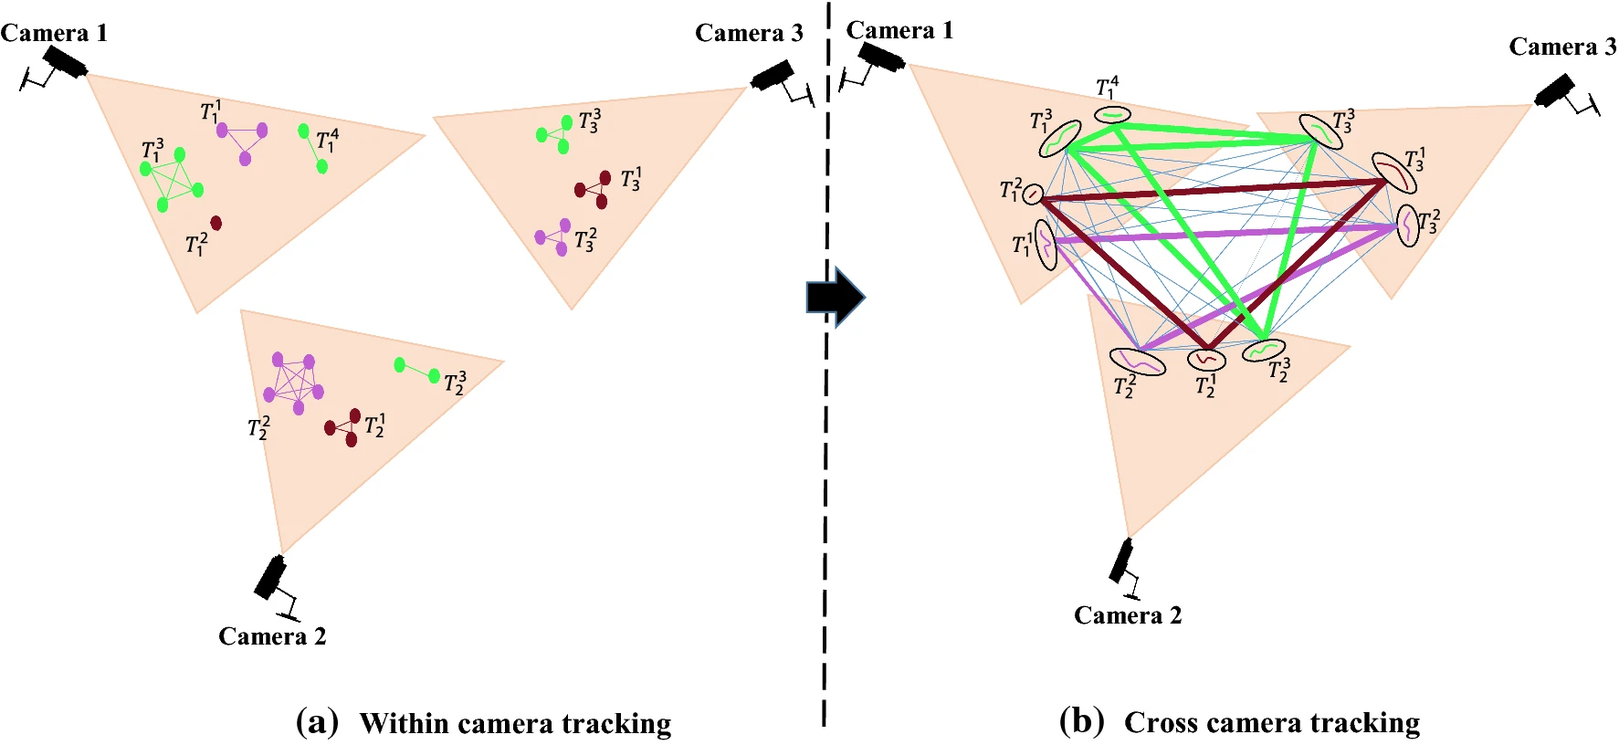
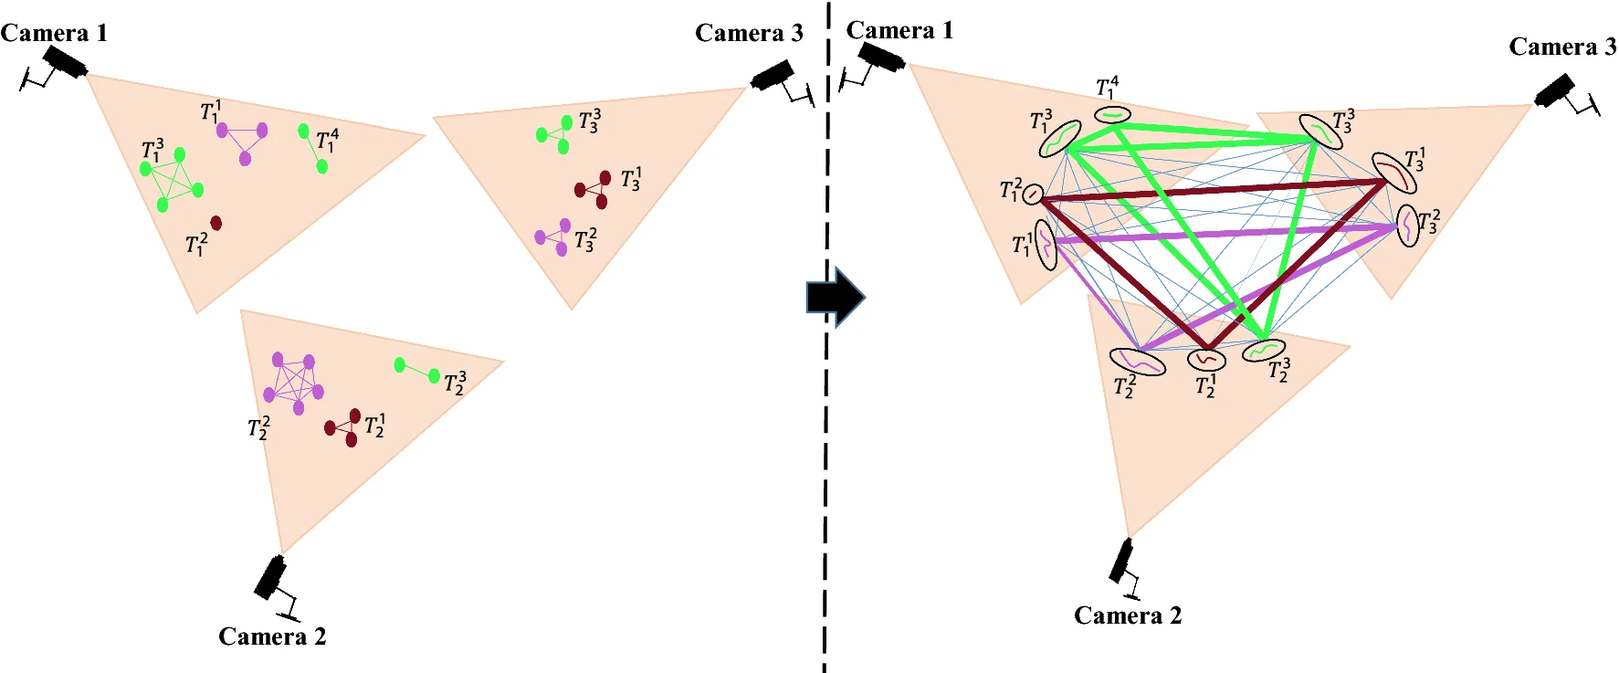
Add literature review, color links

diff --git a/chapters/050-literature_review.tex b/chapters/050-literature_review.tex
@@ -1,5 +1,5 @@
 \chapter{Literature Review}\label{chap:literature_review}
-This chapter reviews the literature on Multi-Target Multi-Camera Tracking (MTMCT) and discusses the trends and advancements as well as the milestones in this field. It will only focus on the latest and state-of-the-art methods and technologies and will not cover the whole history of MTMCT including all the past algorithms and methods. The chapter is structured as follows: Section~\ref{sec:the_beginnings} discusses the beginnings of MTMCT, Section~\ref{sec:milestones} highlights the milestones in MTMCT, Section~\ref{sec:methods} reviews the methods and algorithms used in MTMCT, and Section~\ref{sec:strengths_and_weaknesses} discusses the strengths and weaknesses of the reviewed methods and algorithms.
+This chapter reviews the literature on Multi-Target Multi-Camera Tracking (MTMCT) and discusses the trends and advancements as well as the milestones in this field. It will only focus on the latest and state-of-the-art methods and technologies and will not cover the whole history of MTMCT including all the past algorithms and methods. The chapter is structured as follows: Section~\ref{sec:the_beginnings} discusses the beginnings of MTMCT, Section~\ref{sec:milestones} highlights the milestones in MTMCT, Section~\ref{sec:methods} reviews the methods and algorithms used in MTMCT.
 
 \section{The Beginnings}\label{sec:the_beginnings}
 Back in \citeyear{Cai99} and \citeyear{Chang01} \textcite{Cai99} and \textcite{Chang01} conducted research in the area of tracking people in an multi-camera system. Also in \citeyear{Khan01}, \textcite{Khan01} proposed a method for tracking people and vehicles with uncalibrated cameras. The system is able to discover spatial relationships between the FOVs of the three cameras used. All three works rely on Bayesian classification and networks~\cite{Pearl88}.
@@ -9,7 +9,6 @@ The methods even demonstrated the feasibility of tracking people in real-time, b
 \section{Milestones}\label{sec:milestones}
 This section highlights significant milestones that have shaped the MTMCT research domain, focusing on the five critical areas: detection, feature extraction, data association, tracking, and datasets (challenges).
 
-%TODO: What is the latest YOLO version? YOLOv4 or v8?
 \subsection{Detection}\label{subsec:milestone_detection}
 The foundation for modern object detection methods was laid in \citeyear{Lecun98} by \citeauthor{Lecun98} with the development of Convolutional Neural Networks (CNNs), which are deep learning models specifically designed to process images~\cite{Lecun98}. The advent of deep learning in the past quarter-century has led to a significant improvement in object detection performance.
 
@@ -17,7 +16,7 @@ With the introduction of R-CNN~\cite{Girshick14} in \citeyear{Girshick14}, \cite
 
 Following the success of R-CNN and its successors, the object detection landscape was further revolutionized by the introduction of You-Only-Look-Once (YOLO)~\cite{Redmon15} and Single Shot MultiBox Detector (SSD)~\cite{Liu15}, which are designed to be even more efficient and suitable for real-time applications.
 
-The YOLO framework, presented by \citeauthor{Redmon15} in \citeyear{Redmon15}, revolutionized real-time object detection by predicting bounding boxes and class probabilities directly from full images in just one evaluation. YOLO processes the entire image in a single forward pass through the network, divides the image into a grid, and predicts bounding boxes and probabilities for each grid cell. The strength of YOLO lies in its speed, making it highly suitable for applications where real-time detection is crucial. Even though the original author has stopped working on YOLO, due to ethical concerns, it is still being improved continuously. The latest official version, YOLOv4, was released in \citeyear{Bochkovskiy20} by \textcite{Bochkovskiy20}.
+The YOLO framework, presented by \citeauthor{Redmon15} in \citeyear{Redmon15}, revolutionized real-time object detection by predicting bounding boxes and class probabilities directly from full images in just one evaluation. YOLO processes the entire image in a single forward pass through the network, divides the image into a grid, and predicts bounding boxes and probabilities for each grid cell. The strength of YOLO lies in its speed, making it highly suitable for applications where real-time detection is crucial. Even though the original author has stopped working on YOLO, due to ethical concerns, it is still being improved continuously. The latest official version, YOLOv4, was released in \citeyear{Bochkovskiy20} by \textcite{Bochkovskiy20}. In \citeyear{Jocher23a} Ultralytics released the most recent version YOLOv8~\cite{Jocher23a, Jocher23b}.
 
 \citeauthor{Liu15} proposed SSD in \citeyear{Liu15}, another influential single-shot object detector that balances the trade-off between speed and accuracy. Unlike YOLO, SSD operates on multiple feature maps at different resolutions to effectively handle objects of various sizes. The architecture applies a set of convolutional filters to these feature maps to predict both the bounding box offsets and the class probabilities for a fixed set of default bounding boxes, which are distributed over the image. Detecting and tracking objects across different scales and perspectives makes SSD particularly suitable for MTMCT applications.
 
@@ -74,30 +73,30 @@ Graph-based methods are another cornerstone in tracking, framing the tracking ta
 \subsection{Datasets and Challenges}\label{subsec:datasets_and_challenges}
 Besides the datasets mentioned in section~\ref{sec:datasets}, which are used for object detection in general, there are also datasets which are more tailored towards MTMCT. Typically revolves around tracking specific object classes, predominantly people and vehicles. Datasets, which fits these requirements are listed in table~\ref{tab:overview_datasets}.
 
-%TODO: Add missing (!!!) information
-%TODO: Fix footnote
 \begin{table}[ht]
     \centering
     \caption{Overview of Datasets}\label{tab:overview_datasets}
     \resizebox{\textwidth}{!}{
         \begin{tabular}{|l|c|c|c|c|c|c|c|c|}
             \hline
-            \textbf{Dataset}                                                       & \textbf{Environment} & \textbf{Num. of Scenarios} & \textbf{Num. of Cameras (Overlap)} & \textbf{FPS} & \textbf{IDs} & \textbf{Year} & \textbf{Class}  \\
+            \textbf{Dataset}                     & \textbf{Environment} & \textbf{Num. of Scenarios} & \textbf{Num. of Cameras (Overlap)} & \textbf{FPS} & \textbf{IDs} & \textbf{Year} & \textbf{Class}  \\
             \hline
-            MARS\footnote{extension of Market-1501~\cite{Zheng15}}~\cite{Zheng16b} & !!!                  & !!!                        & !!!                                & !!!          & !!!          & 2016          & Person          \\
-            MOT16~\cite{Milan16a}                                                  & Outdoor              & 14                         & 1                                  & 25-30        & !!!          & 2016          & Person, Vehicle \\
-            DukeMTMC~\cite{Ristani16}                                              & Outdoor              & 1                          & 8 (\cmark)                         & 60           & 2834         & 2016          & Person          \\
-            WILDTRACK~\cite{Chavdarova18}                                          & Outdoor              & 1                          & 7 (\cmark)                         & 60           & 313          & 2018          & Person          \\
-            MSMT17~\cite{Wei18}                                                    & Mixed                & 12                         & 15 (\cmark)                        & 15           & 4101         & 2018          & Person          \\
-            CityFlowV1~\cite{Tang19}                                               & Outdoor              & 5                          & 40 (\cmark)                        & 10           & 666          & 2019          & Vehicle         \\
-            MOT20~\cite{Dendorfer20}                                               & Outdoor              & 8                          & 1                                  & 25           & !!!          & 2020          & Person, Vehicle \\
-            CityFlowV2~\cite{Tang19}                                               & Outdoor              & 6                          & 46 (\cmark)                        & 10           & 880          & 2021          & Vehicle         \\
-            MMPTRACK~\cite{Han23}                                                  & Indoor               & 5                          & 23 (\cmark)                        & 15           & !!!          & 2023          & Person          \\
-            MEVID~\cite{Davila23}                                                  & Mixed                & 17                         & 33 (\cmark)                        & !!!          & 158          & 2023          & Person          \\
+            PETS~\cite{Ferryman09}               & Outdoor              & 3                          & 8 (\cmark)                         & 25           & ---          & 2009          & Person          \\
+            MARS\footnotemark[1]~\cite{Zheng16b} & Mixed                & Multiple                   & 6 (\cmark)                         & ---          & 1261         & 2016          & Person          \\
+            MOT16~\cite{Milan16a}                & Outdoor              & 14                         & 1                                  & 25-30        & ---          & 2016          & Person, Vehicle \\
+            DukeMTMC~\cite{Ristani16}            & Outdoor              & 1                          & 8 (\cmark)                         & 60           & 2834         & 2016          & Person          \\
+            WILDTRACK~\cite{Chavdarova18}        & Outdoor              & Multiple                   & 7 (\cmark)                         & 2            & 313          & 2018          & Person          \\
+            MSMT17~\cite{Wei18}                  & Mixed                & 12                         & 15 (\cmark)                        & 15           & 4101         & 2018          & Person          \\
+            CityFlowV1~\cite{Tang19}             & Outdoor              & 5                          & 40 (\cmark)                        & 10           & 666          & 2019          & Vehicle         \\
+            MOT20~\cite{Dendorfer20}             & Outdoor              & 8                          & 1                                  & 25           & ---          & 2020          & Person, Vehicle \\
+            CityFlowV2~\cite{Tang19}             & Outdoor              & 6                          & 46 (\cmark)                        & 10           & 880          & 2021          & Vehicle         \\
+            MMPTRACK~\cite{Han23}                & Indoor               & 5                          & 23 (\cmark)                        & 15           & ---          & 2023          & Person          \\
+            MEVID~\cite{Davila23}                & Mixed                & 17                         & 33 (\cmark)                        & ---          & 158          & 2023          & Person          \\
             \hline
         \end{tabular}
     }
 \end{table}
+\footnotetext[1]{extension of Market-1501~\cite{Zheng15}}
 
 Table~\ref{tab:overview_datasets} provides a summary of various datasets that have significantly contributed to the MTMCT research domain. Each dataset is categorized based on several distinct criteria to reflect its unique characteristics and relevance:
 
@@ -125,7 +124,10 @@ In recent years, challenges have been established to encourage research in objec
 \section{Methods}\label{sec:methods}
 This section reviews the methods and state-of-the-art algorithms used in MTMCT.
 
-\subsection{Tracking-by-Detection}\label{subsec:tracking_by_detection}
+\subsection{Tracking Paradigms}\label{subsec:tracking_paradigms}
+In the past years various tracking paradigms have been developed, which are used in MTMCT. The most common paradigms are tracking-by-detection, tracking-by-regression, tracking-by-segmentation, and tracking-by-attention. Each of these paradigms has its own advantages and disadvantages, which are discussed in the following sections.
+
+\subsubsection{Tracking-by-Detection}\label{subsubsec:tracking-by-detection}
 The most common approach used by MTMCT systems is to first detect the objects in each frame and then data association is performed to link the detections across frames. This Tracking-by-Detection (TbD) implementation as a multi-shot approach and treats detection and association as separate, sequential tasks, allowing for the use of specialized methods tailored for each step.
 
 One of the pioneering works in this domain is the Simple Online and Realtime Tracking (SORT)~\cite{Bewley16} algorithm proposed by \citeauthor{Bewley16}. SORT employs a combination of Kalman filters for predicting the motion of objects and the Hungarian algorithm for associating detections over time, based on both predicted locations and detected bounding boxes. Its efficiency and speed make it suitable for real-time applications, though it may struggle with identity switches in crowded scenes due to its reliance on motion cues alone.
@@ -139,10 +141,18 @@ Both SORT and DeepSORT have set benchmarks in the field of object tracking, with
     \item \textbf{DeepSORT:} Improves SORT by adding appearance information into the data association step, thus enhancing tracking accuracy, especially in cases where objects interact closely or are temporarily occluded.
 \end{itemize}
 
-It is important to mention that both tracking frameworks rely on an external object detector to provide bounding box detections, which can be any of the object detection models discussed in section~\ref{subsec:milestone_detection}. Also SORT as well as DeepSORT are not
+It is important to mention that both tracking frameworks rely on an external object detector to provide bounding box detections, which can be any of the object detection models discussed in section~\ref{subsec:milestone_detection}. Also SORT as well as DeepSORT are not able to perform inter-camera tracking, this step has to be performed separately.
+
+\subsubsection{Tracking-by-Regression}\label{subsubsec:tracking-by-regression}
+Tracking-by-Regression (TbR) involves directly estimating the position of the object in each frame of a video sequence. Unlike the TbD approach, regression-based methods predict the changes in position of the object. Most approaches learn a regression function from the input image features to the location coordinates. The advantage of this method lies in its ability to continuously refine the estimated position, making it well-suited for scenarios with smooth movements or predictable trajectory patterns.
+
+\subsubsection{Tracking-by-Segmentation}\label{subsubsec:tracking-by-segmentation}
+Tracking-by-Segmentation (TbS), on the other hand, focuses on delineating the precise shape of the target object in each frame. This method not only tracks the position of the object but also provides its detailed segmentation, capturing its exact outline and shape. It is particularly useful in complex scenes where the object might change shape, size, or orientation. By combining tracking and segmentation, this approach offers more detailed and accurate object tracking, especially in environments where the distinction between foreground and background is critical.
+
+\subsubsection{Tracking-by-Attention}\label{subsubsec:tracking_by_attention}Tracking-by-Attention (TbA) represents a paradigm shift in MTMCT systems by incorporating attention mechanisms that prioritize the most salient features of objects during tracking. The attention paradigm, inspired by the visual ability of humans to focus selectively, has been integrated into tracking frameworks to dynamically emphasize important spatial and temporal features.
 
 \subsection{Single-Shot Approaches}\label{subsec:single-shot_approaches}
-In contrast to the TbD implementations, single-shot approaches aim to perform detection and data association simultaneously in a single step. This paradigm, while less common, offers the advantage of speed and simplicity by eliminating the need for separate data association algorithms. Especially in scenarios where computational resources are limited and real-time performance is critical, single-shot approaches can be highly effective.
+In contrast to all the mentioned tracking paradigms, single-shot approaches aim to perform detection and data association simultaneously in a single step. This paradigm, while less common, offers the advantage of speed and simplicity by eliminating the need for separate data association algorithms. Especially in scenarios where computational resources are limited and real-time performance is critical, single-shot approaches can be highly effective.
 
 A notable contribution in this domain is the Single-Shot Multi Object Tracking (SMOT)~\cite{Li20} algorithm proposed by \citeauthor{Li20} in \citeyear{Li20}. SMOT is a tracking framework, which is able to convert any single-shot object detector into a multi-object tracker, which is able to simultaneously generate detection and tracking outputs. It is based on work of \textcite{Bergmann19}, who developed a \textit{Tracktor}, an object detector, which is also able to track objects at the same time. The SMOT framework is able to generate tracklets with a almost constant runtime with respect to number of targets, due to the use of a light-weighted linkage algorithm for online tracklet linking.
 
@@ -184,11 +194,6 @@ By addressing the three key issues with existing multi-task learning frameworks,
 
 An important notice is that the term \textit{single-shot} used by those frameworks only refers to the detection and intra-camera tracking, the inter-camera (multi-camera) associations still require an additional separate step.
 
-\subsection{Tracking-by-Attention}\label{subsec:tracking_by_attention}Tracking-by-Attention (TbA) represents a paradigm shift in MTMCT systems by incorporating attention mechanisms that prioritize the most salient features of objects during tracking. The attention paradigm, inspired by the visual ability of humans to focus selectively, has been integrated into tracking frameworks to dynamically emphasize important spatial and temporal features.
-
-\subsection{Geometrical Approaches}\label{subsec:geometrical_approaches}
-Geometrical approaches are based on the assumption that the cameras are calibrated and the scene is static. The calibration of the cameras is necessary to determine the relative position and orientation
-
 \subsection{Graph Based Approaches}\label{subsec:graph_based_approaches}
 Graph-based approaches have been widely used in MTMCT, especially for data association. The problem of data association can be formulated as a graph optimization problem, where each node represents a detection and edges represent the association costs. The goal is to find the shortest path in the graph, which represents the sequence of object detections over time. More recently Graph Neural Networks (GNNs)~\cite{Scarselli09} have been employed to learn the data association task, allowing for an end-to-end approach to tracking.
 
@@ -202,7 +207,16 @@ The graph based soccer player tracker published by \textcite{Komorowski22} direc
 
 %TODO: Write subsection
 \subsection{Attention Models and Transformers}\label{subsec:attention_models_and_transformers}
+%TODO:~\cite{Zhu19}: Dual Matching Attention Networks
+%TODO:~\cite{Sun20}: TransTrack
+%TODO:~\cite{Yang21}: AOT
+%TODO:~\cite{Hou21}: MVDeTr
+%TODO:~\cite{Li21}: Attention
+%TODO:~\cite{Meinhardt22}: TrackFormer
+%TODO:~\cite{Vaswani17}: Attention is all you need
 
+
+%TODO: Write subsection
 \subsection{Edge Computing}\label{subsec:edge_computing}
 The term \textit{edge computing} refers to the concept of processing data near the source of the data, which is in contrast to the traditional approach of processing data in a centralized cloud. The advantages of edge computing are low latency, reduced bandwidth, and improved security. The major disadvantage is the limited computational resources of edge devices in this case the cameras themselves.
 
@@ -217,23 +231,25 @@ The work of \textcite{Wang21} focuses on the less attention-grabbing use of fish
 
 \citeauthor{Tesfaye19} propose the use of Fast-Constrained Dominant Set Clustering (FCDSC)~\cite{Tesfaye19} to solve both intra- and inter-camera simultaneously. The method is orders of magnitudes faster than existing graph-based methods due to instead of considering the whole graph only a sub-graph is considered. The proposed method follows a three-layer hierarchical approach. The first two layers solve the intra-camera tracking and the third layer the inter-camera tracking while merging the tracks of the same person across camera views. The tracking algorithm runs at 18 FPS and is 2000 times fast than CDSC~\cite{Zemene16} which it is based on.
 
-\subsection{Further Approaches}\label{subsec:further_approaches}
+\subsection{Honorable Mentions}\label{subsec:honorable_mentions}
+In the exploration of advanced tracking methodologies, certain studies stand out for their unique and unconventional approaches. This subsection highlights some of these studies, which are not directly related to MTMCT but are still honorable mentions.
 
-%TODO:~\cite{Huang23a}: Non-overlapping cameras. Pedestrian Tracking. Fix ID-switching issues with long-term feature extraction. OC-SORT + feature extraction, most cited on ieee
+One intriguing development in the field of people tracking is \citetitle{Yu13}~\cite{Yu13} from \citeyear{Yu13}. It draws parallels to the fictional Marauder's Map in the Harry Potter series, this research proposes a framework that follows the TbD paradigm and uses nonnegative discretization for robust localization and tracking of persons in complex environments. Their method handles challenges such as occlusions and sparse surveillance camera coverage, employing a semi-supervised learning framework that integrates cues like color, person detection, face recognition, and non-background information. The application in a real-world nursing home setting captured by 15 cameras demonstrates its effectiveness in indoor scenarios.
 
-%TODO:~\cite{Hsu22}: Graph Auto-Encoder and Self-Supervised Camera Link Model. First implementation of GAE in MTMCT. Very interesting paper. Network topology is learned automatically.
-
-%TODO:~\cite{Ristani18}: High-quality appearance features.
+Equally intriguing is the paper \citetitle{Koehl20}~\cite{Koehl20}, a unique dataset for multi-target multi-camera tracking research, which was captured within the virtual environment of the popular video game Grand Theft Auto 5 (GTA). This creative approach leverages the complex, dynamic world of GTA to provide a rich, diverse dataset for tracking research, highlighting the innovative ways in which simulated environments can contribute to advancements in computer vision without the need of touching someones privacy.
 
 \subsection{State-of-the-Art Approaches}\label{subsec:state-of-the-art_approaches}
-This subsection presents state-of-the-art approaches, which were published in \citeyear{Nguyen22a} and \citeyear{Teepe23}. The approaches achieve state-of-the-art performance on MTMCT datasets but are not real-time capable, due to the use of computationally expensive methods.
+This subsection presents state-of-the-art approaches, which were published in \citeyear{Hsu22} and \citeyear{Teepe23}. The approaches achieve state-of-the-art performance on MTMCT datasets but are not real-time capable, due to the use of computationally expensive methods.
+\citeauthor{Hsu22} introduce a Self-supervised Camera Link Model (SCLM)~\cite{Hsu22} that extracts both appearance and topological features from a Graph Auto-Encoder (GAE)~\cite{Kipf16} to achieve vehicle tracking in a multi-camera environment. The approach follows the TbD paradigm and advances the Traffic-Aware Single Camera Tracking (TSCT)~\cite{Hsu20} algorithm, which proposes a zone generation algorithm. After common steps of detecting objects and extracting appearance features, these are used as a node for the GAE to establish the camera link model and generate the tracking results. In addition the intra-camera tracking results are used to generate entry and exit points by using the MeanShift~\cite{Comaniciu02} clustering algorithm. The combination of the TSCT and the GAE embeddings with the generation of zones leads to state-of-the-art performance on the CityFlow 2019 and 2020 datasets.
 
 Lifted Multicut Meets Geometry Projections (LMGP)~\cite{Nguyen22a} proposed by \citeauthor{Nguyen22a} follows the traditional TbD paradigm, but with the use of POM for each node in the tracking graph, it integrates concepts from centralized representation methods. A pre-clustering step refines tracklets generated by intra-camera tracking to reduce ID switch errors. For the pre-clustering step the bottom edge center of each bounding box is projected to obtain the 3D coordinates. If the Euclidean distance between two projected ground points is less than a diameter of a person, the two detections may belong to the same person. While solving a global lifted multicut formulation the model takes into account short- and long-range temporal interactions  to perform inter-camera matching. Intra-camera tracking is performed by CenterTrack~\cite{Zhou20} and embedding vectors are extracted by DG-Net~\cite{Zheng19}. LMGP achieves near perfect state-of-the-art performance on the Wildtrack dataset.
 
 EarlyBird~\cite{Teepe23} proposes an early-fusion in the bird's eye view (BEV) that means detections are directly performed in the BEV to solve spatial association of pedestrians across cameras. The approach is built on MVDeTr~\cite{Hou21} and brings the concept of joint detection and re-ID extraction from FairMOT to MTMCT. The input frames are augmented and fed to a encoder network, the image features are projected to the ground plane and aggregated to receive BEV features (in the BEV space). Finally detections and their corresponding re-ID features are fed through a decoder network to association the detections. The proposed approach is similar to ReST in the sense that it associates spatially on the ground plane but it has the advantage of projecting the complete feature space to the ground plane and associating it with the decoder network. EarlyBird shows that early fusion in the BEV space is able to outperform late fusion in the image space. The disadvantage is a higher computational cost due to simultaneously projecting full images of all camera views to the ground plane. Furthermore, high-quality 3D annotations are required which is costly and rare for real-world data.
 
+%TODO: Sadly only tested on own dataset
+\citeauthor{Huang23a} propose a method for non-overlapping multi-camera pedestrian tracking that solves the problem of poor long-term feature storage to allow identifying people correctly even though significant appearance changes like different clothes or lighting conditions occur. The proposed method follows the TbD paradigm and combines an state-of-the-art OC-SORT-based~\cite{Cao23} tracker with the person re-ID library Torchreid~\cite{Zhou19} for feature extraction. The feature extraction is performed as an averaging of the features while only taking frames into account where the person is not occluded nor about to leave or enter the scene. Once a new person enters the scene and has accumulated enough features the cosine distance between the features of the new person and all the people in the area is calculated and the ID is restored if the distance is below a certain threshold, this works for both matching people in the same camera and across camera views. Furthermore, a new dataset including 40000 frames recorded by three cameras is proposed to evaluate the performance of their method. Results show that the combination of OC-SORT, the proposed long-term feature extraction and Torchreid outperforms state-of-the-art methods on the new dataset.
+
 \textcite{Huang23b} achieve the first-place ranking in the AI City Challenge 2023 (Track1) with their anchor-guided clustering approach for inter-camera re-ID enabled by self-camera calibrations to improve tracking accuracy of people with similar appearances. Three steps are performed to achieve the final tracking results. First, intra-camera tracking is performed with BoT-SORT~\cite{Aharon22} following a standard TbD scheme. Second, the anchor guided clustering step fixes ID switches and assigns a global ID to each trajectory by hierarchically clustering appearance features from each camera view and obtaining anchors. Each anchor contains features that represent the appearance of the same identity under different conditions. Third, human pose with camera self-calibration is utilized to project the tracked objects on a top-down map.
 
-\section{Strengths and Weaknesses}\label{sec:strengths_and_weaknesses}
-This section discusses the strengths and weaknesses of the reviewed methods and algorithms.
-
+The \citetitle{Kristan23} presents the performance of the 47 submitted trackers for the challenge. Most trackers apply a uniform dynamic model and utilize transformers.
+Multi- as well as single-shot approaches are used, but the top three trackers are single-shot approaches. The top tracker DMAOT is built upon the VOT22~\cite{Kristan22} winner AOT~\cite{Yang21} and its  DeAOT~\cite{Yang22b}. Although a detailed technical documentation on DMAOT is currently not available, it is known that it stores long-term memories object- instead of frame-wise to predict object masks. Overall the challenge reveals a paradigm shift from bounding-box trackers to segmentation-based trackers, which outperform all bounding-box trackers in the challenge.

diff --git a/chapters/030-introduction.tex b/chapters/030-introduction.tex
@@ -11,9 +11,8 @@ This research project aims to provide a comprehensive review of the state-of-the
 
 The rest of this project is structured as follows. Chapter~\ref{chap:background} provides an overview of the key challenges and issues in MTMCT, along with a discussion of the datasets, metrics, and components of an MTMCT system. Futhermore it explains the basic concepts of object detection and tracking. Chapter~\ref{chap:literature_review} presents a detailed review of the literature on MTMCT, with the main focus on online and real-time tracking methods with static cameras. Chapter~\ref{chap:discussion} compares and contrasts the different methods reviewed in the previous sections, identifies the gaps and limitations in current research, and suggests areas for future research. While considering the ethical and privacy concerns related to MTMCT, it also discusses the need for regulations and guidelines. Finally, Chapter~\ref{chap:conclusion} concludes the project with a summary of the key findings and insights, along with stating the future directions and challenges for research in this area.
 
-%TODO: What are tracklets, trajectiories, tracks, etc.?
 \section{Definition of MTMCT}\label{sec:definition_of_mtmct}
-MTMCT is an integration of object detection and tracking methodologies to simultaneously track multiple predefined objects of interest across various camera views. The objective of MTMCT is to maintain a coherent understanding of the identities (IDs) of the objects and trajectories as they move through the fields of view of different cameras. The objects of interest are often people and vehicles, but in theory can be any moving object. The camera setup differs from one application to another, but typically consists of multiple cameras with either overlapping, non-overlapping, or partially overlapping fields of view. The cameras may be static or moving, and may be placed at different heights and angles. The cameras may also have differing technical specifications like resolution, frame rate, and field of view (FOV).
+MTMCT is an integration of object detection and tracking methodologies to simultaneously track multiple predefined objects of interest across various camera views. The objective of MTMCT is to maintain a coherent understanding of the identities (IDs) of the objects and their paths as they move through the fields of view of different cameras. The objects of interest are often people and vehicles, but in theory can be any moving object. The camera setup differs from one application to another, but typically consists of multiple cameras with either overlapping, non-overlapping, or partially overlapping fields of view. The cameras may be static or moving, and may be placed at different heights and angles. The cameras may also have differing technical specifications like resolution, frame rate, and field of view (FOV).
 
 \section{Importance of MTMCT}\label{sec:importance_of_mtmct}
 MTMCT plays a crucial role in various real-world applications. In video surveillance, it is used to monitor and analyze the movement of individuals or vehicles across different cameras, which can be vital for security and forensic analysis. In sports analysis, MTMCT can provide valuable insights by tracking the movement and interaction of players across different camera angles. In traffic monitoring, MTMCT can help manage traffic flow and detect incidents by tracking vehicles as they move through different camera views.
@@ -23,11 +22,15 @@ Furthermore, the need for online and real-time tracking in these applications is
 \section{Objective of Research Project}\label{sec:objective_of_review}
 First, the basics concepts of SCT are explained to provide a foundation for understanding MTMCT. The primary objective of this project is to provide a comprehensive overview of proposed methods and technologies for MTMCT and review the current state-of-the-art in MTMCT, with a special focus on online and real-time tracking methods. Through an extensive literature review, the aim is to explore the latest trends, technologies, and challenges faced in this field, and provide insights drawn from recent research papers and studies. By highlighting the significant advancements made in MTMCT, the intend is to identify the gaps in current research and outline potential avenues for future exploration, while keeping in mind the ethical and privacy concerns related to MTMCT.
 
-%TODO: Read Zheng16c and describe paper
 \section{Related Work}\label{sec:related_work}
-The work \citetitle{Zheng16c} by \textcite{Zheng16c} focuses on the history, present and future of person re-identification.
-Although this paper gives a good overview, it was published in \citeyear{Zheng16c} and therefore does not cover the latest research in this field, which will be covered by this project.
+The work of \textcite{Zheng16c} focuses on the past, present and future of person re-identification (re-ID), that is the task of identifying a person across multiple cameras for example if the person leaves and re-enters the field of view of a camera or a person is lost for a short time. The paper covers hand-crafted algorithms as well as deep learning approaches for both image- and video-based re-ID. Furthermore, important datasets are covered, quickly explained and the approaches are evaluated. Although this paper gives a good overview, it was published in \citeyear{Zheng16c} and therefore does not cover the latest research in this field, which will be covered by this project.
 
-The doctoral thesis of \textcite[Chapter 5]{Tian19}, published in \citeyear{Tian19}, revolves around the topic of tracking multiple objects and gives a state-of-the-art overview of this field. It does not cover the topic of multi-camera tracking. However, it provides a mathematical insight into the topic of tracking multiple objects.
+Two years later \citetitle{Iguernaissi18}~\cite{Iguernaissi18} was published which gives an overview of multi-camera tracking methods. The review covers the most important methods and dataset in the field of tracking people in a multi-camera system. However, it does not cover the task of tracking vehicles and is limited to approaches that were released until \citeyear{Iguernaissi18}.
 
-The most recent and comprehensive review of MTMCT was published in \citeyear{Amosa23} by \textcite{Amosa23}. It provides a detailed overview of the state-of-the-art in MTMCT, covering the latest trends, technologies, and challenges in this field. However, the mentioned review gives a broader overview and does not focus on online and real-time tracking methods, which is the main focus of this project. Futhermore, this research project aims to provide an easier introduction to the field of MTMCT by first explaining the basics before diving into the details of the latest research.
+One chapter of the doctoral thesis of \textcite[Chapter 5]{Tian19}, published in \citeyear{Tian19}, revolves around the topic of tracking multiple objects and gives a state-of-the-art overview of this field. It does not cover the topic of multi-camera tracking. However, it provides a mathematical insight into the topic of tracking multiple objects in a single-camera system.
+
+The extensive survey \citetitle{Zadeh21}~\cite{Zadeh21} by \citeauthor{Zadeh21} delineates the evolution and the state (\citeyear{Zadeh21}) of deep learning-based visual tracking methods, categorizing these methods based on their network architecture, training processes, and learning procedures. It provides a detailed examination of various deep learning architectures and custom networks, each contributing to the efficiency and robustness of visual trackers. It analyzes the challenges faced by DL-based trackers and the solutions proposed to address them. The survey also offers a comprehensive comparison of well-known single-object visual tracking datasets, evaluating and analyzing state-of-the-art DL-based methods across a range of tracking scenarios. While this survey focus on single-object tracking, their insights into the advancements in deep learning architectures and methodologies provide a valuable context for the study on MTMCT that also adapts and applies mentioned approaches. This survey thus serves as an important source understanding the broader landscape of deep learning applications in visual tracking in general.
+
+The most recent and comprehensive review of MTMCT was published in \citeyear{Amosa23} by \textcite{Amosa23}. It provides a detailed overview of the state-of-the-art in MTMCT, covering the latest trends, technologies, and challenges in this field. However, the mentioned review gives a broader overview and does not focus on online and real-time tracking methods, which is a main aspect of this project. Futhermore, this research project aims to provide an easier introduction to the field of MTMCT by first explaining the basics before diving into the details of the latest research.
+
+The integration of edge computing in IoT, as explored in \citetitle{Yu17}~\cite{Yu17}, provides valuable insights for the MTMCT domain. This survey highlights how edge computing significantly reduces latency and balances network traffic, which are critical for real-time data processing in IoT networks. Such capabilities are directly relevant to the challenges faced in MTMCT, especially when dealing with high volumes of data from multiple cameras. The discussion of the paper on distributed computational nodes and their role in supporting real-time analysis and decision-making offers a parallel to the computational needs in MTMCT. Incorporating edge computing concepts could potentially enhance the performance and efficiency of MTMCT systems, particularly in scenarios requiring quick processing of complex data from various sources.

diff --git a/chapters/040-background.tex b/chapters/040-background.tex
@@ -1,5 +1,5 @@
 \chapter{Background}\label{chap:background}
-This chapter provides an overview of the basic concepts of object detection and tracking and the steps of an Multi-Target Multi-Camera Tracking (MTMCT) system, along with a discussion of its key challenges and issues. Also the foundational building blocks of MTMCT are introduced, namely Single-Target Single-Camera Tracking (ST-SCT) and Multi-Target Single-Camera Tracking (MT-SCT). Futhermore it explains the datasets and metrics used to evaluate MTMCT systems.
+This chapter provides an overview of the basic concepts of object detection and tracking and the steps of an Multi-Target Multi-Camera Tracking (MTMCT) system, along with a discussion of its key challenges and issues. Also the foundational building blocks of MTMCT are introduced. Futhermore it explains the datasets and metrics used to evaluate MTMCT systems.
 
 \section{Steps of an MTMCT System}\label{sec:steps_of_an_mtmct_system}
 An MTMCT system typically consists of the following steps: detection, feature extraction, data association, and tracking. Only the basic and fundamental concepts are explained in this section, more advanced and recent methods, mostly revolving around deep learning, will be discussed in chapter~\ref{chap:literature_review}.
@@ -11,13 +11,22 @@ Detection refers to the process of identifying objects of interest within video 
 Feature extraction involves extracting relevant information from detected objects to facilitate tracking. This could include low-level features like color, shape and texture as well as high-level features like object parts and their spatial relationships, speed, and direction of movement. The features extracted from objects are used to identify and distinguish them from other objects in the scene.
 
 \subsection{Data Association}\label{subsec:data_association}
+To understand the data association step the following terms need to be defined:
+
+\begin{itemize}
+    \item \textbf{Tracklets:} Short segments of a path of an object captured within the view of a single camera, formed by connecting successive frame detections.
+    \item \textbf{Trajectories:} The complete path of an object over time, often across multiple frames and cameras, created by merging together tracklets.
+    \item \textbf{Tracks:} Refined trajectories that represent the validated path of an object after correction for inaccuracies and false detections.
+\end{itemize}
+
+In the research literature, these terms are often used interchangeably and not always consistently, but for the purposes of this project, the above definitions are used.
+
 Data association is the process of associating current detected objects with existing tracks based on similarities in their features. This is done by comparing the features of detected objects with the features of existing tracks and assigning the detected objects to the most similar tracks. This step is critical in maintaining the identity of objects as they move through the scene or even leaving and re-entering the scene, which is called re-identification (re-ID). Commonly the data association step is first performed in a hierarchical manner: first on a single camera view (intra-camera), before the tracks are associated across multiple camera views (inter-camera) and finally being optimized globally.
 
-%TODO: Fix (a) and (b) in figure
 \begin{figure}[ht]
     \centering
     \includegraphics[width=0.75\textwidth]{resources/fig/Tesfaye19-intra_inter_camera_tracking.png}
-    \caption{Intra- and inter-camera tracking~\cite[Fig.~1]{Tesfaye19}}\label{fig:intra_inter_camera_tracking}
+    \caption{Intra- (left) and inter-camera (right) tracking~\cite[Fig.~1]{Tesfaye19}}\label{fig:intra_inter_camera_tracking}
 \end{figure}
 
 The two steps of data association of three non-overlapping camera views are illustrated in Figure~\ref{fig:intra_inter_camera_tracking}. The first step is intra-camera tracking, where the tracks are associated independently within the three camera views. The second step is inter-camera tracking, where the tracks are associated across the three camera views and the IDs of the objects are maintained. This simple example can be extended to any number of camera views, overlapping or non-overlapping.
@@ -28,11 +37,11 @@ Tracking refers to the step of maintaining the trajectory of detected objects ov
 \section{Fundamental Concepts}\label{sec:fundamental_concepts}
 This section briefly describes the preliminary concepts of MTMCT, which are essential to follow the progression from basic object tracking methods to advanced MTMCT techniques.
 
-\subsection{Single-Target Single-Camera Tracking (ST-SCT)}\label{subsec:st_sct}
-ST-SCT is the simplest form of object tracking and involves tracking a single target in the field of view of a single camera. The primary goal of ST-SCT is to maintain the identity (ID) and trajectory of the target as it moves through the view of the camera.
+\subsection{Single-Target Single-Camera Tracking}\label{subsec:st_sct}
+Single-Target Single-Camera Tracking (ST-SCT) is the simplest form of object tracking and involves tracking a single target in the field of view of a single camera. The primary goal of ST-SCT is to maintain the identity (ID) and trajectory of the target as it moves through the view of the camera.
 
-\subsection{Multi-Target Single-Camera Tracking (MT-SCT)}\label{subsec:mt_sct}
-MT-SCT builds upon the principles of ST-SCT but introduces the added complexity of dealing with multiple targets in a view of a single-camera. It aims to track multiple objects simultaneously while maintaining the ID of each target and avoiding ID switches. This requires sophisticated algorithms that can handle occlusions, interactions between targets, and other challenges that especially arise in crowded scenes.
+\subsection{Multi-Target Single-Camera Tracking}\label{subsec:mt_sct}
+Multi-Target Single-Camera Tracking (MT-SCT) builds upon the principles of ST-SCT but introduces the added complexity of dealing with multiple targets in a view of a single-camera. It aims to track multiple objects simultaneously while maintaining the ID of each target and avoiding ID switches. This requires sophisticated algorithms that can handle occlusions, interactions between targets, and other challenges that especially arise in crowded scenes.
 
 The progression from ST-SCT to MT-SCT, and ultimately to MTMCT, reflects the increasing complexity and capability of tracking systems to handle more complex scenarios. This evolution is possible, due to advances in computer vision and machine learning, which provide the tools necessary to tackle the challenges associated with tracking multiple targets across multiple camera views.
 

diff --git a/master.tex b/master.tex
@@ -10,7 +10,11 @@
 \pagenumbering{Roman}
 \include{chapters/010-declaration}
 \include{chapters/020-abstract}
-\tableofcontents
+
+{
+    \hypersetup{hidelinks}
+    \tableofcontents
+}
 
 \newpage
 \pagenumbering{arabic}
@@ -20,10 +24,13 @@
 \include{chapters/060-discussion}
 \include{chapters/070-conclusion}
 
-\include{chapters/999-structure}
+%\include{chapters/999-structure}
 
-\listoffigures
-\listoftables
+{
+    \hypersetup{hidelinks}
+    \listoffigures
+    \listoftables
+}
 \printbibliography
 
 \end{document}

diff --git a/config/packages.tex b/config/packages.tex
@@ -69,5 +69,10 @@
 		},
 	bookmarksnumbered=true,
 	pdfstartview=FitH,
+	colorlinks=true,
+	citecolor=green,
+	linkcolor=red,
+	urlcolor=blue,
+	filecolor=black,
 	%hidelinks,
 }
